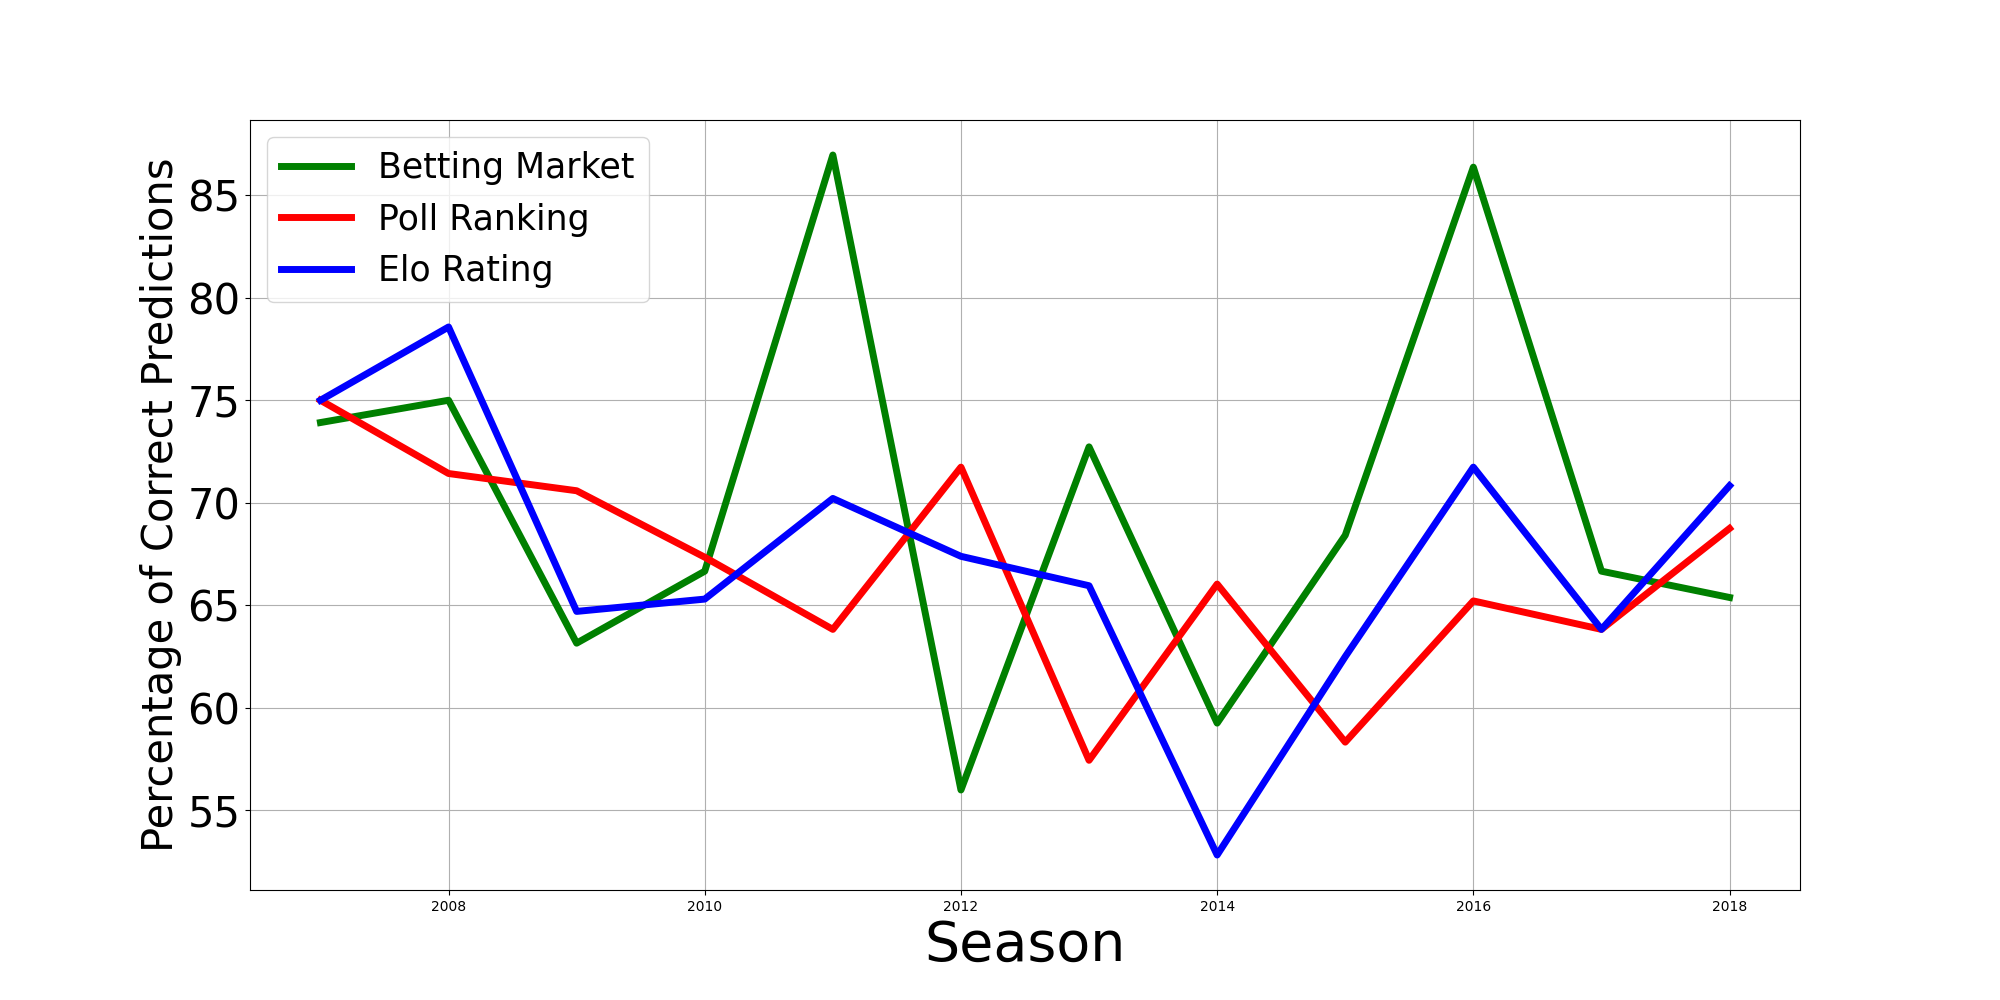
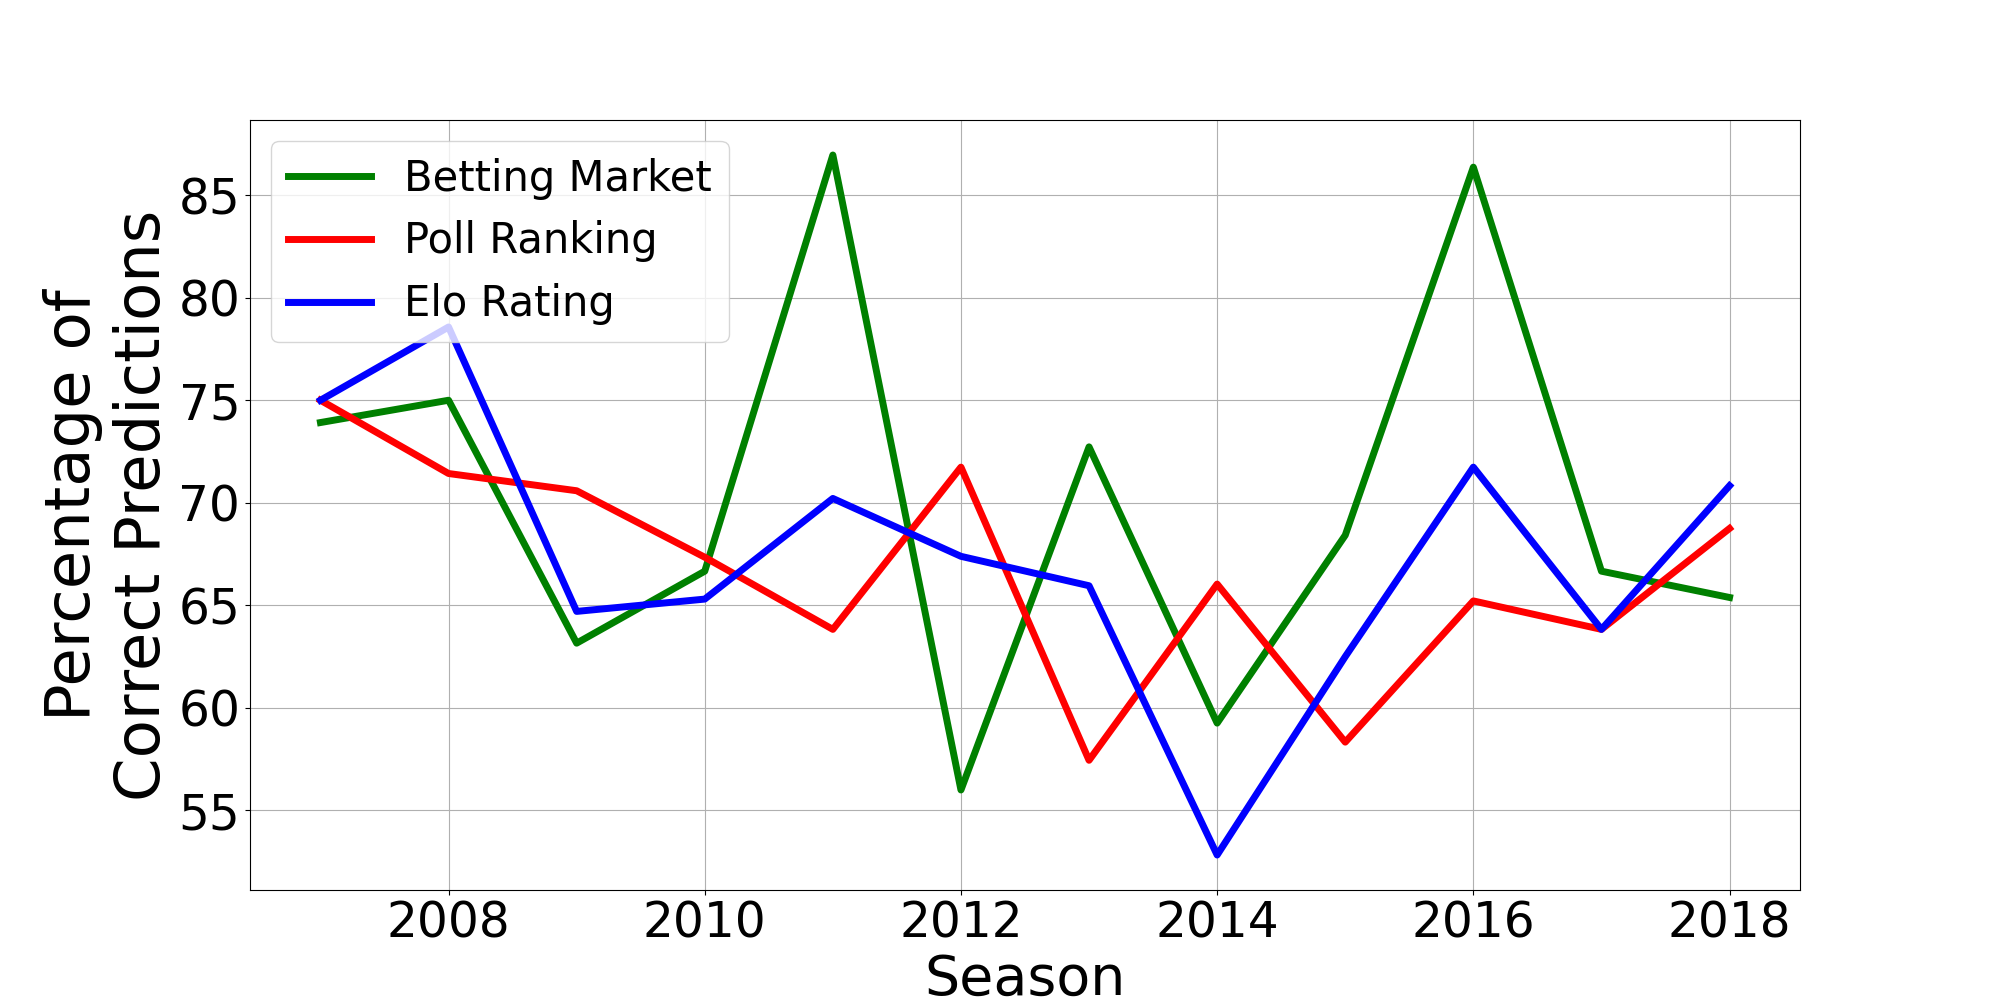
updated graphs

diff --git a/sports-reference/combine_graphs.py b/sports-reference/combine_graphs.py
@@ -20,17 +20,17 @@ def coinflipprob(number):
     return 0.5
 y_coinflip = [coinflipprob(number) for number in x]
 
-plt.figure(figsize=(16,8))
+plt.figure(figsize=(22,11))
 
 plt.scatter(cfb["rankdiff"].to_list(),cfb["act"].to_list(),color="red",label="Actual Win Probability (Football)", s=100)
 plt.plot(x,y_cfb,color="red",label="Probit Regression Line (Football)", linewidth=5)
 plt.scatter(cbb["rankdiff"].to_list(),cbb["act"].to_list(),color="blue",label="Actual Win Probability (Basketball)",s=100)
 plt.plot(x,y_cbb,color="blue",label="Probit Regression Line (Basketball)", linewidth=5)
-plt.plot(x,y_coinflip,color="black",label="0.5 Win Probability (Coin Flip Model)",linewidth=3)
-plt.xlabel("Difference in Poll Ranking", fontsize=30)
-plt.ylabel("Win Probability", fontsize=30)
-plt.xticks([0,2,4,6,8,10,12,14,16,18,20],fontsize=20)
-plt.yticks(fontsize=20)
-plt.legend(fontsize=20, loc='upper left')
+plt.plot(x,y_coinflip,color="black",linestyle='--', label="0.5 Win Probability (Coin Flip Model)",linewidth=3)
+plt.xlabel("Difference in Poll Ranking", fontsize=40)
+plt.ylabel("Win Probability", fontsize=45)
+plt.xticks([0,2,4,6,8,10,12,14,16,18,20],fontsize=30)
+plt.yticks(fontsize=30)
+plt.legend(fontsize=23, loc='upper left')
 plt.savefig("sports-reference/combinedGraph.png")
-plt.show()
+# plt.show()

diff --git a/calibration_plot/src/calibration.py b/calibration_plot/src/calibration.py
@@ -13,14 +13,14 @@ grouped_P_Homewins_Elo = df.groupby('P_Homewins_Elo_group')['result'].mean().res
 grouped_MoneylineProb = df.groupby('MoneylineProb_group')['result'].mean().reset_index()
 
 
-plt.figure(figsize=(20,10))
+plt.figure(figsize=(22,11))
 l = [0.05, 0.15, 0.25, 0.35, 0.45, 0.55, 0.65, 0.75, 0.85, 0.95]
 l2 = [0, 0.1, 0.2,0.3, 0.4, 0.5, 0.6, 0.7, 0.8, 0.9, 1]
 # plt.plot(l, grouped_P_Homewins_Elo['result'], marker='o', linestyle='-', color='b', label='Elo Rating')
 plt.plot(l, grouped_MoneylineProb['result'], marker='s', linestyle='-', color='g', label='Moneyline', linewidth=8, markersize=25)
 plt.plot(l2, l2, linestyle='--', color='k', label='Perfect Calibration', linewidth=5)
-plt.xlabel('Predicted Win Probability', fontsize=35)
-plt.ylabel('Actual Frequency of Wins', fontsize=35)
+plt.xlabel('Predicted Win Probability', fontsize=45)
+plt.ylabel('Actual\nFrequency of Wins', fontsize=50)
 plt.legend(fontsize=40, loc = 'upper left')
 #plt.xticks(rang, [f'{i * 0.1:.1f}' for i in range(10)]) 
 plt.xticks([i * 0.1 for i in range(11)], [f'{i * 0.1:.1f}' for i in range(11)], fontsize=30)
@@ -29,3 +29,4 @@ plt.grid(True)
 
 
 plt.savefig("calibration_plot/calibration.png")
+plt.show()

diff --git a/accuracy/src/accuracy/emp25Total.py b/accuracy/src/accuracy/emp25Total.py
@@ -33,7 +33,7 @@ for attribute, measurement in data.items():
     rects = ax.bar(x + offset, measurement, width, label=attribute, color=colors[attribute])
     multiplier += 1
 
-ax.set_ylabel('Percentage of Correct Predictions', fontsize=33)
+ax.set_ylabel('Percentage of\nCorrect Predictions', fontsize=50)
 
 red_bar_center_football = x[0] + width
 red_bar_center_basketball = x[1] + width
@@ -47,4 +47,4 @@ ax.tick_params(axis='y', which='major', labelsize=30, pad=15)
 
 
 plt.savefig("accuracy/visualizations/presentation/emp25TotalPresentation.png")
-plt.show()
+# plt.show()

diff --git a/accuracy/src/accuracy/emp25Presentation.py b/accuracy/src/accuracy/emp25Presentation.py
@@ -49,10 +49,11 @@ plt.plot(seasons, elo_accuracy, color="blue", label = "Elo Rating", linewidth=5)
 
 
 plt.xlabel('Season', fontsize=40)
-plt.ylabel('Percentage of Correct Predictions', fontsize=30)
-plt.yticks(fontsize=30)
-plt.legend(fontsize=25,loc='upper left')
+plt.ylabel('Percentage of\nCorrect Predictions', fontsize=45)
+plt.yticks(fontsize=35)
+plt.xticks(fontsize=35)
+plt.legend(fontsize=30,loc='upper left')
 plt.grid(True)
 plt.savefig('accuracy/visualizations/presentation/emp25Presentation.png')
-plt.show()
+# plt.show()
 
